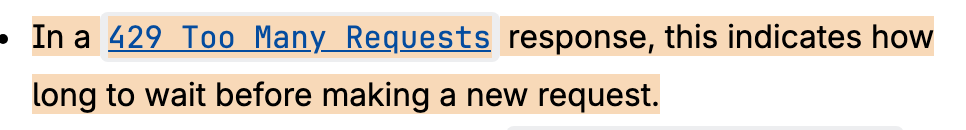
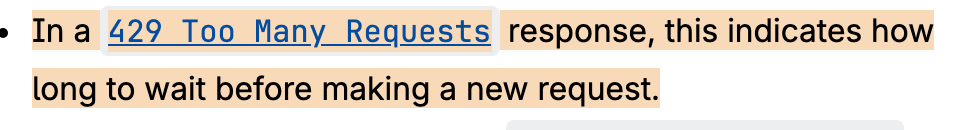
Check every generated link in Chromium; fix links around footnote markers
build.mjs now opens each case's fragment_url in Chromium and fails the
case if the browser doesn't jump to the quote. A 4000px spacer inserted
before load makes any match scroll, even for quotes at the top of a
page; a nonsense link and a known-good link run first as controls.

The check found two links that passed every other assertion:
- footnote-marker: the end term "day across 40 regions" straddled the
  [1] marker. snap.mjs now builds start/end terms on either side of
  footnote markers ("…per day" / "across 40 regions").
- js-rendered: browsers apply text fragments once, at load, so text
  added later by JavaScript can't be highlighted. snap.mjs now notes
  this when a quote appears only after waiting; the case expects
  link: false.

35/36 links highlight (the js-rendered one by design); 48/48 pass.

Changed region(s): [[0.0, 0.0615, 0.9938, 0.4615], [0.0311, 0.5231, 0.6832, 0.8923]]

diff --git a/examples/README.md b/examples/README.md
@@ -1,6 +1,6 @@
 # Examples and edge cases
 
-Every case below is generated by [`build.mjs`](build.mjs) from [`cases.json`](cases.json): it runs the input through `snap.mjs` and checks the result against what the case expects.
+Every case below is generated by [`build.mjs`](build.mjs) from [`cases.json`](cases.json): it runs the input through `snap.mjs`, checks the result against what the case expects, and opens every generated link in Chromium to confirm it really jumps to the quote.
 
 Cases marked 🌐 use live websites; the rest use small local pages in [`fixtures/`](fixtures), served from `http://127.0.0.1:4317` (so their links only work while `build.mjs` is running).
 
@@ -53,7 +53,7 @@ The common case. Also shows the crop skipping the floating infobox next to the p
 
 </details>
 
-**match:** `exact`
+**match:** `exact` · **link:** highlights the quote in Chromium
 
 What the skill writes:
 
@@ -83,7 +83,7 @@ The page uses “curly quotes” and an em dash; the quote uses straight quotes 
 
 </details>
 
-**match:** `exact` · **internal:** true
+**match:** `exact` · **internal:** true · **link:** highlights the quote in Chromium
 
 What the skill writes:
 
@@ -109,7 +109,7 @@ Page says “rate-limited”, quote says “rate limited”. Still word for word
 
 </details>
 
-**match:** `loose` · **internal:** true
+**match:** `loose` · **internal:** true · **link:** highlights the quote in Chromium
 
 What the skill writes:
 
@@ -135,7 +135,7 @@ The quote is not on the page. The script returns the closest real sentence, whic
 
 </details>
 
-**match:** `fuzzy`
+**match:** `fuzzy` · **link:** highlights the quote in Chromium
 
 **note:** Quote not on page verbatim; closest sentence (overlap 0.81). Use quote_on_page, not the original quote.
 
@@ -182,7 +182,7 @@ The sentence contains a link styled as code. Also shows a sticky site header not
 
 </details>
 
-**match:** `exact`
+**match:** `exact` · **link:** highlights the quote in Chromium
 
 What the skill writes:
 
@@ -213,14 +213,14 @@ The page has a [1] marker mid-sentence; the quote doesn't. It still matches, and
 
 </details>
 
-**match:** `exact` · **internal:** true
+**match:** `exact` · **internal:** true · **link:** highlights the quote in Chromium
 
 What the skill writes:
 
 ```md
 [^footnote-marker]: > 2.5 billion requests per day across 40 regions
     >
-    > — [Scale](http://127.0.0.1:4317/footnotes.html#:~:text=2.5%20billion%20requests%20per,day%20across%2040%20regions) · retrieved 2026-11-08
+    > — [Scale](http://127.0.0.1:4317/footnotes.html#:~:text=2.5%20billion%20requests%20per%20day,across%2040%20regions) · retrieved 2026-11-08
     >
     > ![Footnote marker inside the quote](refs/footnote-marker.png)
 ```
@@ -244,7 +244,7 @@ RFCs are preformatted text wrapped at 72 columns. The quote spans wrapped lines,
 
 </details>
 
-**match:** `exact`
+**match:** `exact` · **link:** highlights the quote in Chromium
 
 What the skill writes:
 
@@ -274,7 +274,7 @@ The sentence appears in two sections. Without a hint the script takes the first,
 
 </details>
 
-**match:** `exact` · **internal:** true · **occurrence:** 1 of 2
+**match:** `exact` · **internal:** true · **occurrence:** 1 of 2 · **link:** highlights the quote in Chromium
 
 **note:** Quote appears 2 times; matched the first. If you meant another, re-run with prefix/suffix (words just before/after it).
 
@@ -304,7 +304,7 @@ What the skill writes:
 
 </details>
 
-**match:** `exact` · **internal:** true · **occurrence:** 2 of 2
+**match:** `exact` · **internal:** true · **occurrence:** 2 of 2 · **link:** highlights the quote in Chromium
 
 **note:** Picked occurrence 2 of 2 using prefix/suffix.
 
@@ -337,7 +337,7 @@ Fact boxes often put each line in one paragraph separated by <br>. The lines cou
 
 </details>
 
-**match:** `exact` · **internal:** true
+**match:** `exact` · **internal:** true · **link:** highlights the quote in Chromium
 
 What the skill writes:
 
@@ -367,7 +367,7 @@ The date appears twice. The words pinning the link to the first one come from th
 
 </details>
 
-**match:** `exact` · **internal:** true · **occurrence:** 1 of 2
+**match:** `exact` · **internal:** true · **occurrence:** 1 of 2 · **link:** highlights the quote in Chromium
 
 **note:** Quote appears 2 times; matched the first. If you meant another, re-run with prefix/suffix (words just before/after it).
 
@@ -395,7 +395,7 @@ Over 160 characters, so the link uses the short start,end form instead of the wh
 
 </details>
 
-**match:** `exact` · **internal:** true
+**match:** `exact` · **internal:** true · **link:** highlights the quote in Chromium
 
 What the skill writes:
 
@@ -421,7 +421,7 @@ These characters are syntax in text-fragment links, so they must be encoded (%2D
 
 </details>
 
-**match:** `exact`
+**match:** `exact` · **link:** highlights the quote in Chromium
 
 What the skill writes:
 
@@ -448,7 +448,7 @@ The text is inside a closed <details>. The script finds it, expands the section,
 
 </details>
 
-**match:** `exact` · **internal:** true
+**match:** `exact` · **internal:** true · **link:** highlights the quote in Chromium
 
 **note:** Quote was inside collapsed content; it was expanded for the screenshot.
 
@@ -496,7 +496,7 @@ What the skill writes:
 <a id="js-rendered"></a>
 ### Text added by JavaScript after load
 
-The page fetches its content 1.2 s after loading. The script waits for the network to go quiet and retries.
+The page fetches its content 1.2 s after loading. The script waits for the network to go quiet and retries, so the quote is verified. Browsers apply a highlight link once, at load, so the link can't highlight text that arrives later; the result's note says so.
 
 <details><summary>Input</summary>
 
@@ -509,7 +509,9 @@ The page fetches its content 1.2 s after loading. The script waits for the netwo
 
 </details>
 
-**match:** `exact` · **internal:** true
+**match:** `exact` · **internal:** true · **link:** does not highlight in browsers (expected)
+
+**note:** This text appeared only after the page finished loading (added by JavaScript). It is verified, but browsers may not highlight it when the link is opened.
 
 What the skill writes:
 
@@ -536,7 +538,7 @@ No spaces between words; matching still works.
 
 </details>
 
-**match:** `exact` · **internal:** true
+**match:** `exact` · **internal:** true · **link:** highlights the quote in Chromium
 
 What the skill writes:
 
@@ -566,7 +568,7 @@ Emoji are kept and encoded in the link.
 
 </details>
 
-**match:** `exact` · **internal:** true
+**match:** `exact` · **internal:** true · **link:** highlights the quote in Chromium
 
 What the skill writes:
 
@@ -677,7 +679,7 @@ Moved pages are followed.
 
 </details>
 
-**match:** `exact` · **internal:** true
+**match:** `exact` · **internal:** true · **link:** highlights the quote in Chromium
 
 What the skill writes:
 
@@ -703,7 +705,7 @@ Most sites redirect plain http.
 
 </details>
 
-**match:** `exact` · **occurrence:** 1 of 2
+**match:** `exact` · **occurrence:** 1 of 2 · **link:** highlights the quote in Chromium
 
 **note:** Quote appears 2 times; matched the first. If you meant another, re-run with prefix/suffix (words just before/after it).
 
@@ -850,7 +852,7 @@ On purpose: internal docs on your network are a core use case. The result is fla
 
 </details>
 
-**match:** `exact` · **internal:** true
+**match:** `exact` · **internal:** true · **link:** highlights the quote in Chromium
 
 What the skill writes:
 
@@ -900,7 +902,7 @@ Prompt wording: (no wording needed)
 
 </details>
 
-**match:** `exact` · **internal:** true
+**match:** `exact` · **internal:** true · **link:** highlights the quote in Chromium
 
 What the skill writes:
 
@@ -934,7 +936,7 @@ Prompt wording: "tight screenshots"
 
 </details>
 
-**match:** `exact` · **internal:** true
+**match:** `exact` · **internal:** true · **link:** highlights the quote in Chromium
 
 What the skill writes:
 
@@ -968,7 +970,7 @@ Prompt wording: "show the whole section"
 
 </details>
 
-**match:** `exact` · **internal:** true
+**match:** `exact` · **internal:** true · **link:** highlights the quote in Chromium
 
 What the skill writes:
 
@@ -1003,7 +1005,7 @@ Prompt wording: "full-screen screenshots"
 
 </details>
 
-**match:** `exact` · **internal:** true
+**match:** `exact` · **internal:** true · **link:** highlights the quote in Chromium
 
 What the skill writes:
 
@@ -1038,7 +1040,7 @@ Prompt wording: "include a couple of lines around it"
 
 </details>
 
-**match:** `exact` · **internal:** true
+**match:** `exact` · **internal:** true · **link:** highlights the quote in Chromium
 
 What the skill writes:
 
@@ -1072,7 +1074,7 @@ Prompt wording: "mobile-sized screenshots"
 
 </details>
 
-**match:** `exact` · **internal:** true
+**match:** `exact` · **internal:** true · **link:** highlights the quote in Chromium
 
 What the skill writes:
 
@@ -1107,7 +1109,7 @@ Prompt wording: "keep them short"
 
 </details>
 
-**match:** `exact` · **internal:** true
+**match:** `exact` · **internal:** true · **link:** highlights the quote in Chromium
 
 What the skill writes:
 
@@ -1141,7 +1143,7 @@ Prompt wording: "highlight in yellow"
 
 </details>
 
-**match:** `exact` · **internal:** true
+**match:** `exact` · **internal:** true · **link:** highlights the quote in Chromium
 
 What the skill writes:
 
@@ -1175,7 +1177,7 @@ Prompt wording: "no highlight"
 
 </details>
 
-**match:** `exact` · **internal:** true
+**match:** `exact` · **internal:** true · **link:** highlights the quote in Chromium
 
 What the skill writes:
 
@@ -1209,7 +1211,9 @@ Prompt wording: "dark mode screenshots"
 
 </details>
 
-**match:** `exact` · **internal:** true
+**match:** `exact` · **internal:** true · **link:** highlights the quote in Chromium
+
+**note:** Page has no dark mode; the screenshot uses its light theme.
 
 What the skill writes:
 
@@ -1243,7 +1247,7 @@ Prompt wording: "smaller images"
 
 </details>
 
-**match:** `exact` · **internal:** true
+**match:** `exact` · **internal:** true · **link:** highlights the quote in Chromium
 
 What the skill writes:
 
@@ -1275,7 +1279,7 @@ Falls back to the paragraph and says so.
 
 </details>
 
-**match:** `exact` · **internal:** true
+**match:** `exact` · **internal:** true · **link:** highlights the quote in Chromium
 
 **note:** No heading above the quote; used the paragraph frame.
 
@@ -1310,7 +1314,7 @@ The page is shorter than the window; the capture stops at the page's end.
 
 </details>
 
-**match:** `exact` · **internal:** true
+**match:** `exact` · **internal:** true · **link:** highlights the quote in Chromium
 
 What the skill writes:
 
@@ -1342,7 +1346,7 @@ Pages can't be forced dark; the screenshot stays light and the result says so.
 
 </details>
 
-**match:** `exact` · **internal:** true
+**match:** `exact` · **internal:** true · **link:** highlights the quote in Chromium
 
 **note:** Page has no dark mode; the screenshot uses its light theme.
 
@@ -1375,7 +1379,7 @@ Frames the whole row so the value keeps its context. The table is wider than the
 
 </details>
 
-**match:** `exact` · **internal:** true
+**match:** `exact` · **internal:** true · **link:** highlights the quote in Chromium
 
 What the skill writes:
 
@@ -1406,7 +1410,7 @@ RFC 9110 reflows as fonts and styles arrive. The script waits until the quote st
 
 </details>
 
-**match:** `exact` · **occurrence:** 1 of 2
+**match:** `exact` · **occurrence:** 1 of 2 · **link:** highlights the quote in Chromium
 
 **note:** Quote appears 2 times; matched the first. If you meant another, re-run with prefix/suffix (words just before/after it).
 

diff --git a/CONTRIBUTING.md b/CONTRIBUTING.md
@@ -31,7 +31,7 @@ claude --plugin-dir .
 
 ## Test your change
 
-Every change to the script must keep all example cases passing:
+Every change to the script must keep all example cases passing, including the browser check that each generated link really highlights its quote:
 
 ```bash
 node examples/build.mjs --check      # verify everything, write nothing
@@ -63,6 +63,8 @@ Fixing a bug or adding a feature? Add a case that would have failed before, so i
    ```
 
    `{{base}}` is the local fixture server. Add `"live": true` for cases that use real websites. `expect` can check `ok`, `match`, `hidden`, `internal`, `occurrence`, `occurrences`, `screenshot`, and substrings of `error`, `note` and the link (`fragment`).
+
+   Every generated link is also opened in Chromium to confirm it really jumps to the quote. If a link legitimately can't highlight (for example, text a page adds with JavaScript after loading), set `"link": false` in `expect` and say why in `why`.
 3. Run `node examples/build.mjs` and check the new screenshot by eye.
 
 ## Change the skill instructions
